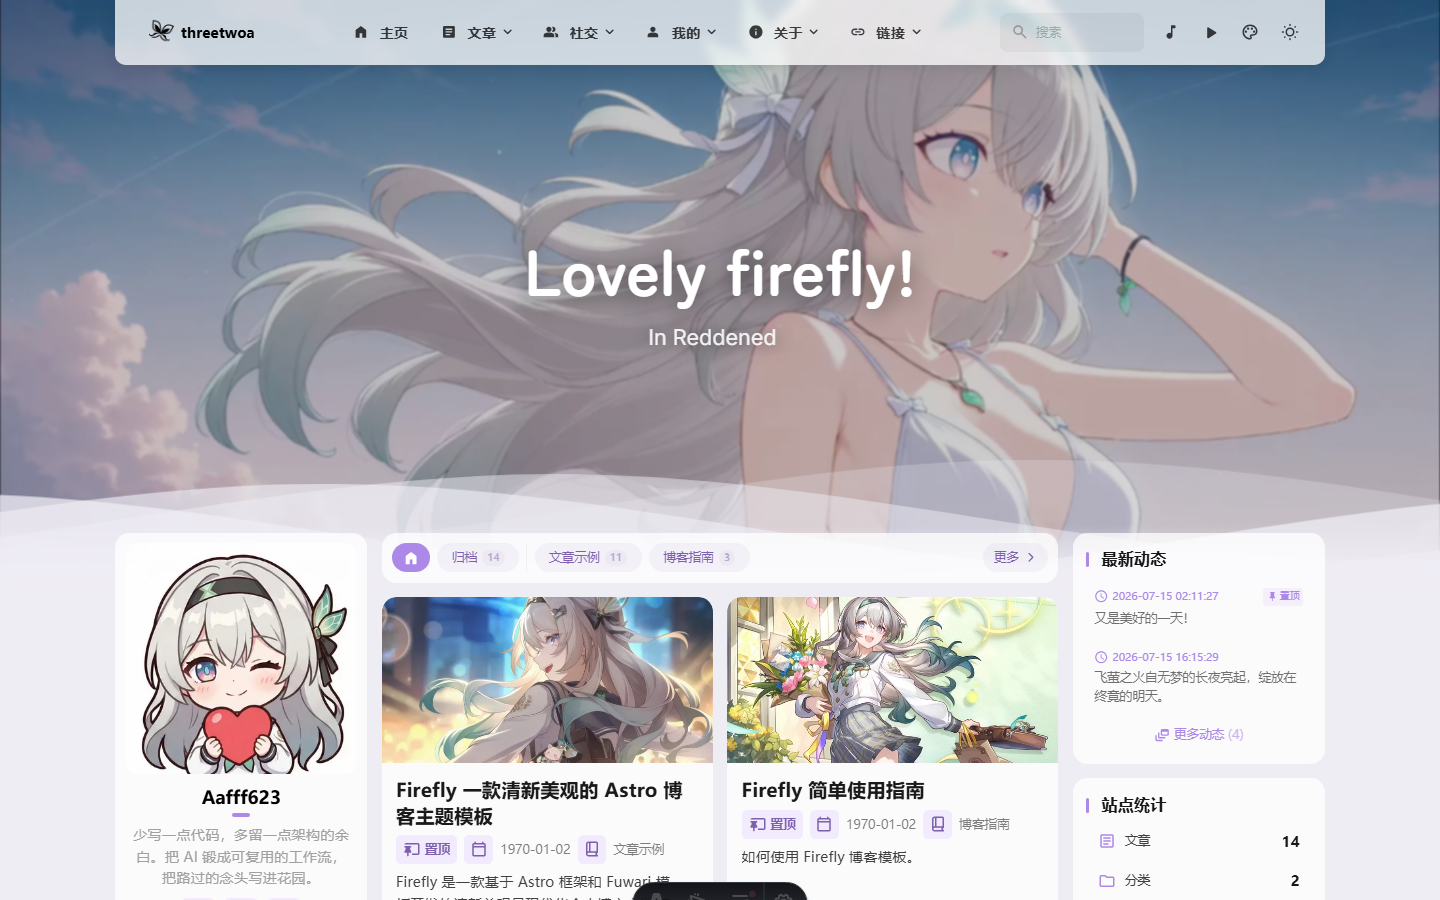
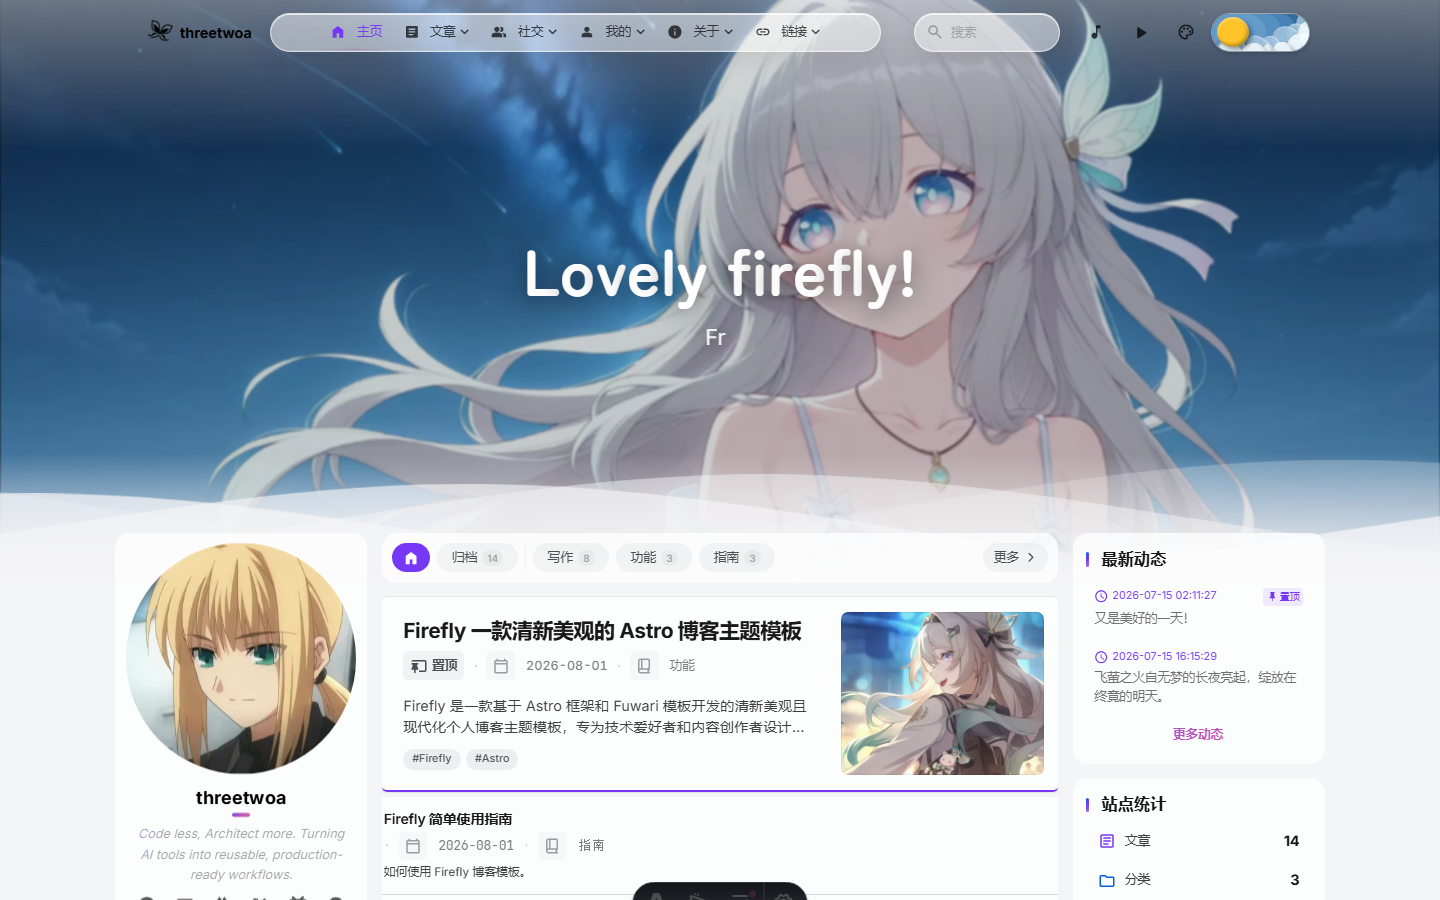
docs(readme): 重截 Showcase 并同步阅读面文案

diff --git a/README.md b/README.md
@@ -55,17 +55,21 @@
 
 - **Config-driven** — 站点 / 导航 / 侧栏 / 壁纸 / 字体 / 评论集中在 `src/config/*.ts`
 - **Layout system** — 单/双侧栏 · 列表/网格 · 横幅 + 透明壁纸
+- **Reading UI** — Index-First TOC（中心焦点渐变）· list Featured+行 · About Quote-Led · 分类/标签单色点缀
 - **Theme controls** — 色相、亮暗切换、显示设置面板
 - **Markdown extensions** — 提醒框、Mermaid、PlantUML、Wiki Link 等（`src/plugins`）
 - **Extended pages** — 动态、相册、友链、留言等，可用 `siteConfig.pages.*` 关闭
+- **Sidebar extras** — 日历贡献热力图 + 空闲贪吃蛇 · 可选桌宠（SpritePet）
 
 ---
 
 ## Showcase
 
-推荐浏览路径：首页 → 文章 → 动态 → 归档 / 关于 / 图库。
+推荐浏览路径：首页（list）→ 文章（TOC）→ 动态 → 归档 / 关于 / 图库。
 
 线上站点：https://fork-firefly.vercel.app
+
+> 画册图由 Playwright 真机截取（`scripts/capture-readme-showcase.py`）。UI 大改后：先 `pnpm dev`，再跑该脚本覆盖 `assets/images/readme/showcase-*.png`。
 
 ### Blog surfaces
 
@@ -74,13 +78,13 @@
     <td width="33%" valign="top" align="center">
       <a href="assets/images/readme/showcase-home.png"><img alt="Home" src="assets/images/readme/showcase-home.png" width="100%"></a>
       <br><strong>Home</strong><br>
-      <sub>品牌标题 · 列表/网格 · 双侧栏 · 壁纸横幅</sub><br>
+      <sub>list Featured+行 · 双侧栏 · 壁纸横幅</sub><br>
       <a href="https://fork-firefly.vercel.app/">Open</a>
     </td>
     <td width="33%" valign="top" align="center">
       <a href="assets/images/readme/showcase-post.png"><img alt="Post" src="assets/images/readme/showcase-post.png" width="100%"></a>
       <br><strong>Post</strong><br>
-      <sub>封面 / TOC / Markdown 扩展 / 上下篇</sub><br>
+      <sub>Index-First TOC · 暖黄标题焦点 · Markdown 扩展</sub><br>
       <a href="https://fork-firefly.vercel.app/posts/guide/firefly-layout-system/">Open</a>
     </td>
     <td width="33%" valign="top" align="center">
@@ -94,13 +98,13 @@
     <td width="33%" valign="top" align="center">
       <a href="assets/images/readme/showcase-archive.png"><img alt="Archive" src="assets/images/readme/showcase-archive.png" width="100%"></a>
       <br><strong>Archive</strong><br>
-      <sub>按年折叠 · 分类导航</sub><br>
+      <sub>按年折叠 · 克制行列表</sub><br>
       <a href="https://fork-firefly.vercel.app/archive/">Open</a>
     </td>
     <td width="33%" valign="top" align="center">
       <a href="assets/images/readme/showcase-about.png"><img alt="About" src="assets/images/readme/showcase-about.png" width="100%"></a>
       <br><strong>About</strong><br>
-      <sub>个人页 · 品牌与介绍</sub><br>
+      <sub>Quote-Led · Now / Practice / Reach</sub><br>
       <a href="https://fork-firefly.vercel.app/about/">Open</a>
     </td>
     <td width="33%" valign="top" align="center">
@@ -172,6 +176,7 @@ pnpm dev
 | `pnpm format` | Biome 格式化 |
 | `pnpm new-post <slug>` | 新建文章 |
 | `pnpm new-d <一句话>` | 新建动态 |
+| `python scripts/capture-readme-showcase.py` | 重截 README Showcase（需 `pnpm dev`） |
 
 ### Deploy
 

diff --git a/docs/outputs/prd/readme-diagrams/readme-diagram-brief.md b/docs/outputs/prd/readme-diagrams/readme-diagram-brief.md
@@ -29,7 +29,7 @@
 | 为什么 | — | 边界表已写 |
 | 功能 | `features.png` | 表已写；图待出（Prompt §二.1） |
 | Preview | README 壳 8090 | 声明无 Gallery |
-| Showcase | `showcase-*.png`（6 张：home/post/dynamic/archive/about/gallery） | ✅ Playwright 已截满两行三列，勿生图 |
+| Showcase | `showcase-*.png`（6 张：home/post/dynamic/archive/about/gallery） | ✅ 2026-08-01 按 reading-ui 重截（`scripts/capture-readme-showcase.py`） |
 | 架构 | `architecture.png` | 图待出（Prompt §二.2；tech-stack 并入此图） |
 | 主链路 | `workflow.png` | 图待出（Prompt §三） |
 | 快速开始 / 目录 / 路线图 / 文档 | — | 已维护 |
@@ -55,6 +55,7 @@
 - [x] README 居中 Header + fork 说明 + Showcase 三列表
 - [x] 参照仓链接写入文档节
 - [x] Showcase Playwright 截图落盘并写入 README
+- [x] 2026-08-01：reading-ui 后重截 6 张 + README 文案同步
 - [x] banner.png 已挂 README Header
 - [ ] features / architecture / workflow 说明图
 - [x] 本地 `8090` 预览壳 OK → push → 核 GitHub README 渲染

diff --git a/assets/README.md b/assets/README.md
@@ -4,7 +4,7 @@
 
 | 路径 | 用途 | 何时建 |
 |---|---|---|
-| `images/readme/` | README 配图（Phase B） | 默认 |
+| `images/readme/` | README 配图：`banner.png` + `showcase-*.png`（Playwright：`scripts/capture-readme-showcase.py`） | 默认 |
 | `images/avatar/` · `icon/` | 文档用槽位 | 有图时 |
 | `backup/` | 上游 zip 只读备份 | 有才建 |
 | `video/` · `ppt/` · `speeches/` | 演示素材 | 有才建 |
